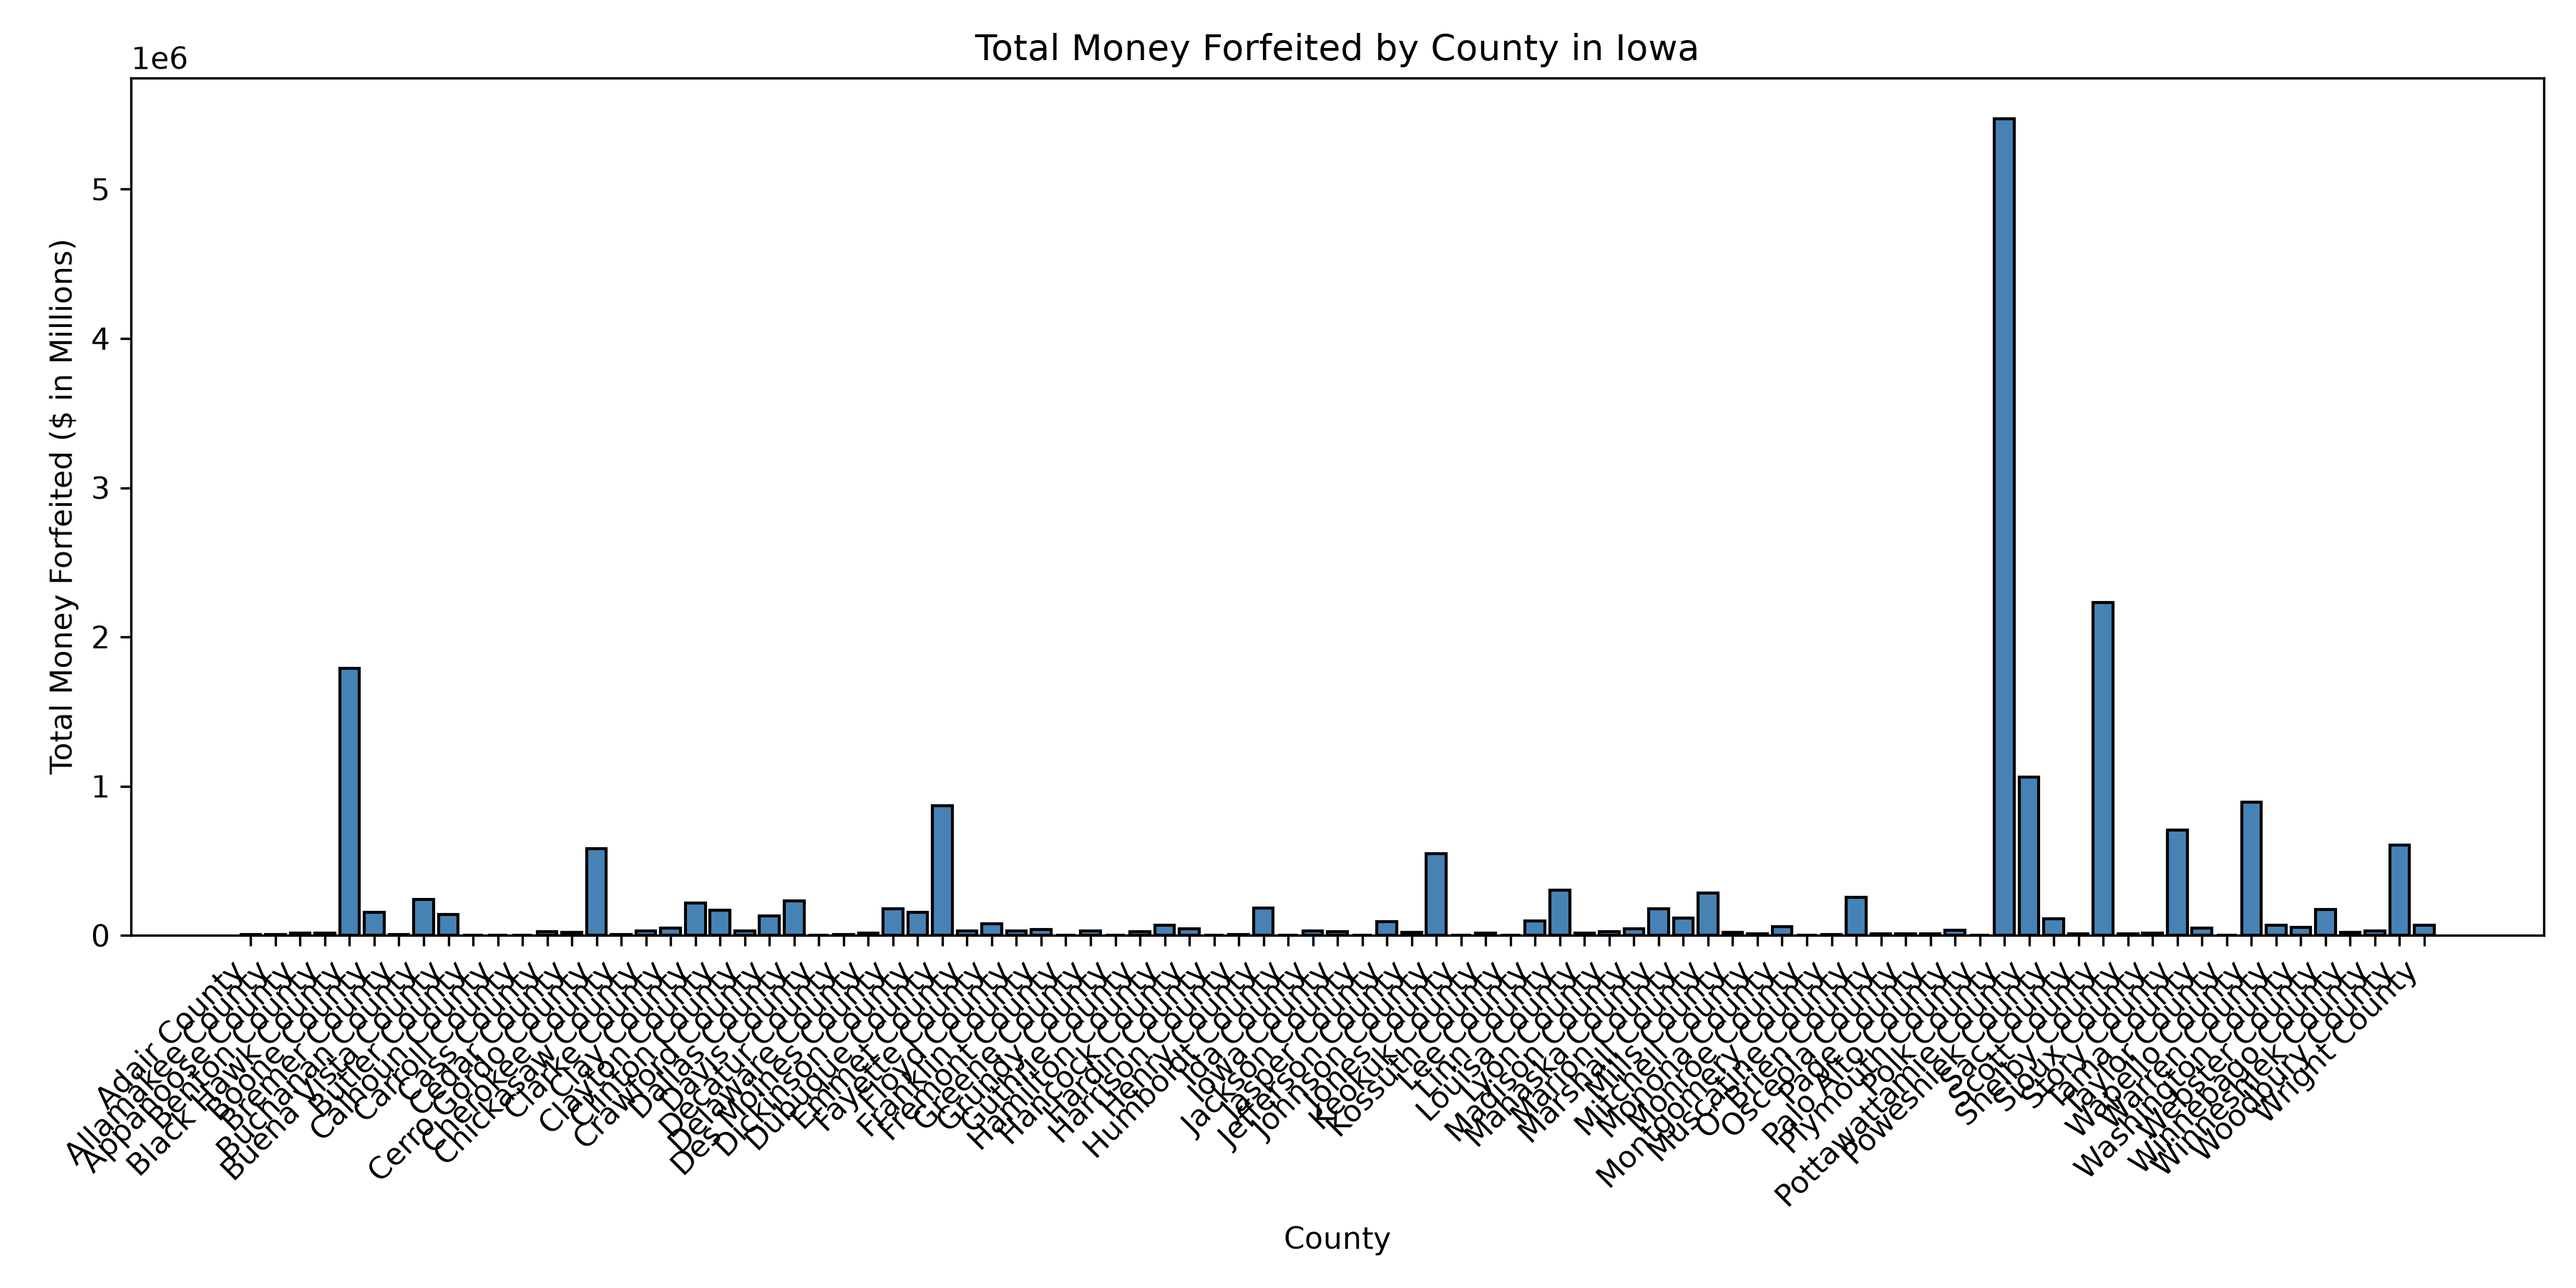
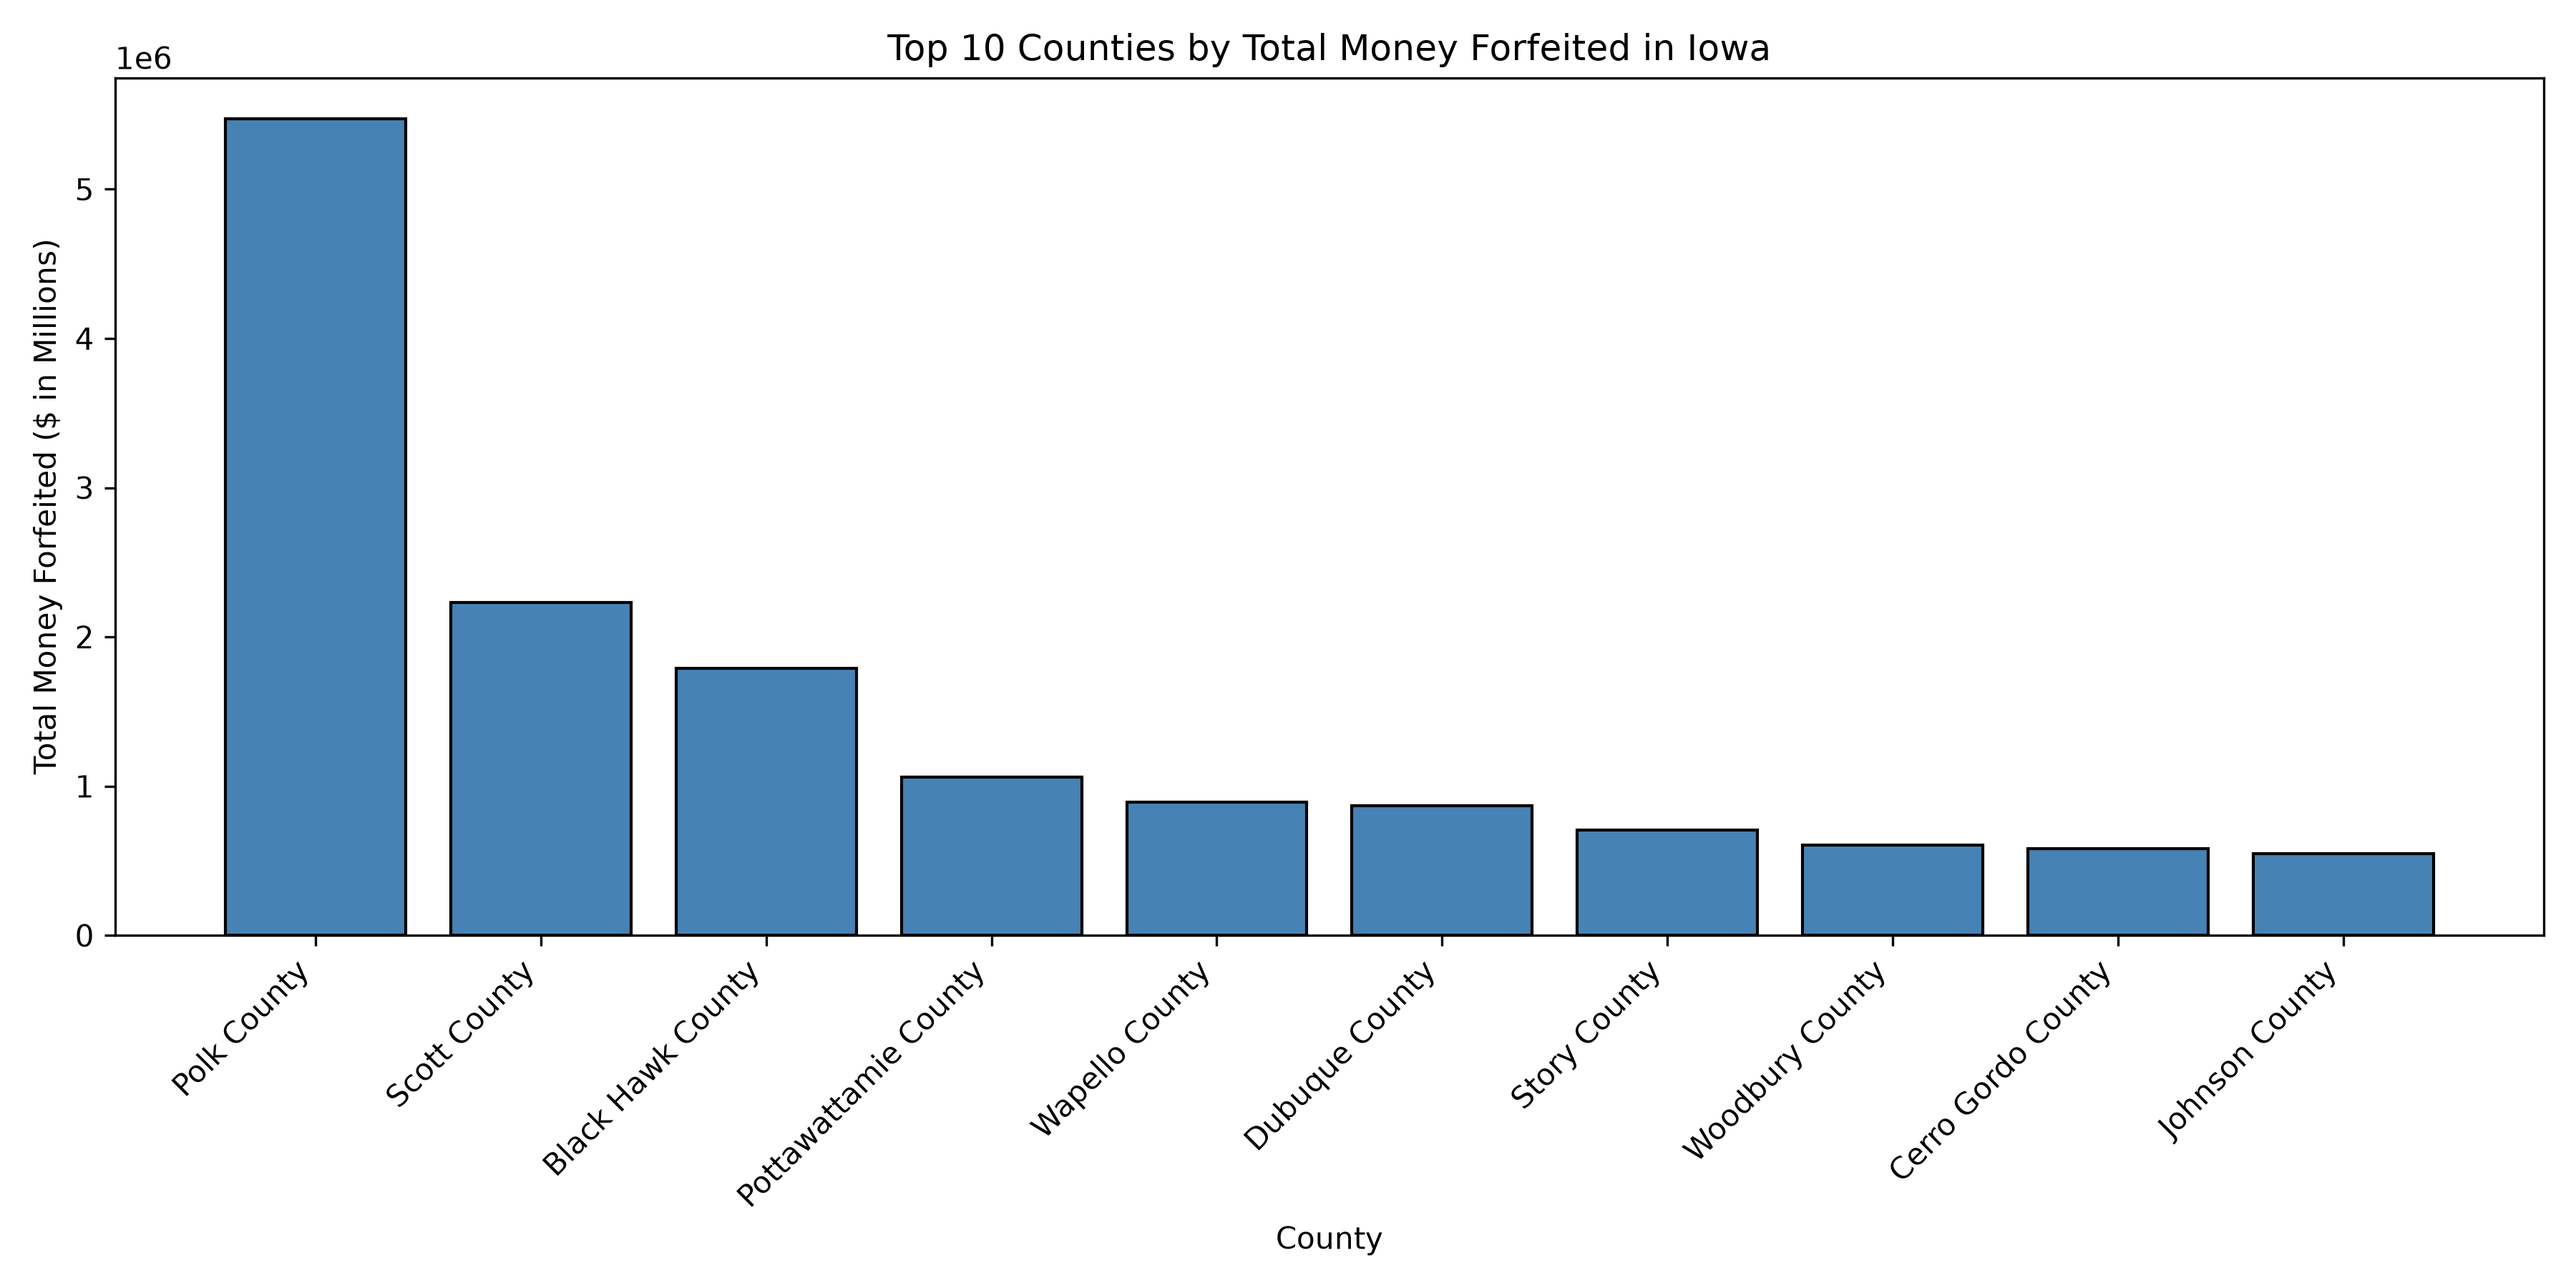
fixed print statements

diff --git a/Code.py b/Code.py
@@ -58,7 +58,7 @@ import pandas as pd
 df = pd.read_csv("Data/state_of_Iowa_forfeiture_cases_957_rows.csv")
 
 # 2. make sure columns names are correct for forfeiture amounts
-print(df.columns)
+#print(df.columns)
 
 # 3. group by county and sum the forfeiture amounts
 county_forfeitures = (
@@ -93,4 +93,9 @@ plt.savefig("county_forfeitures_bar_graph.png", dpi=300)
 
 
 #################Task 3#########################
+#Put task 3 code before the plt.show() command to display the graph
+
+
+
+
 plt.show()
